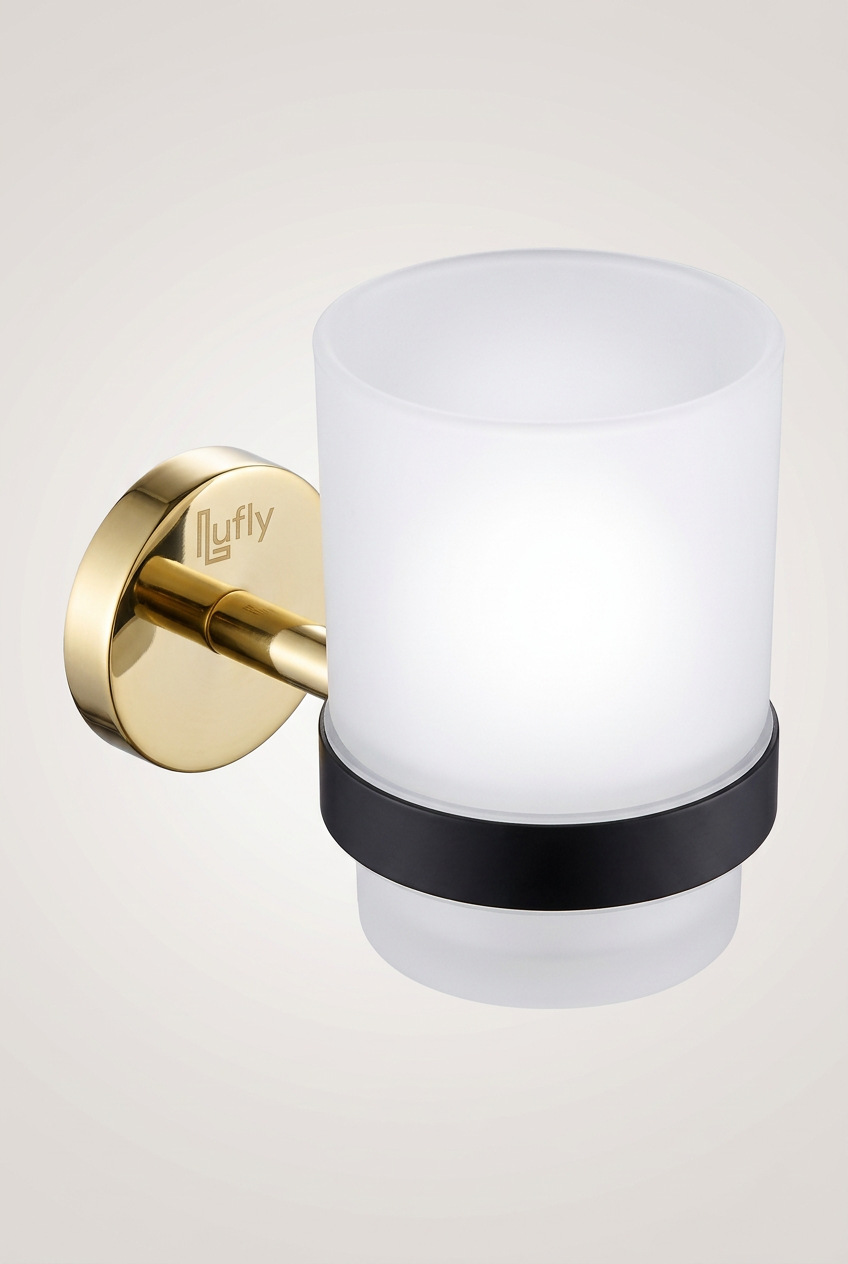
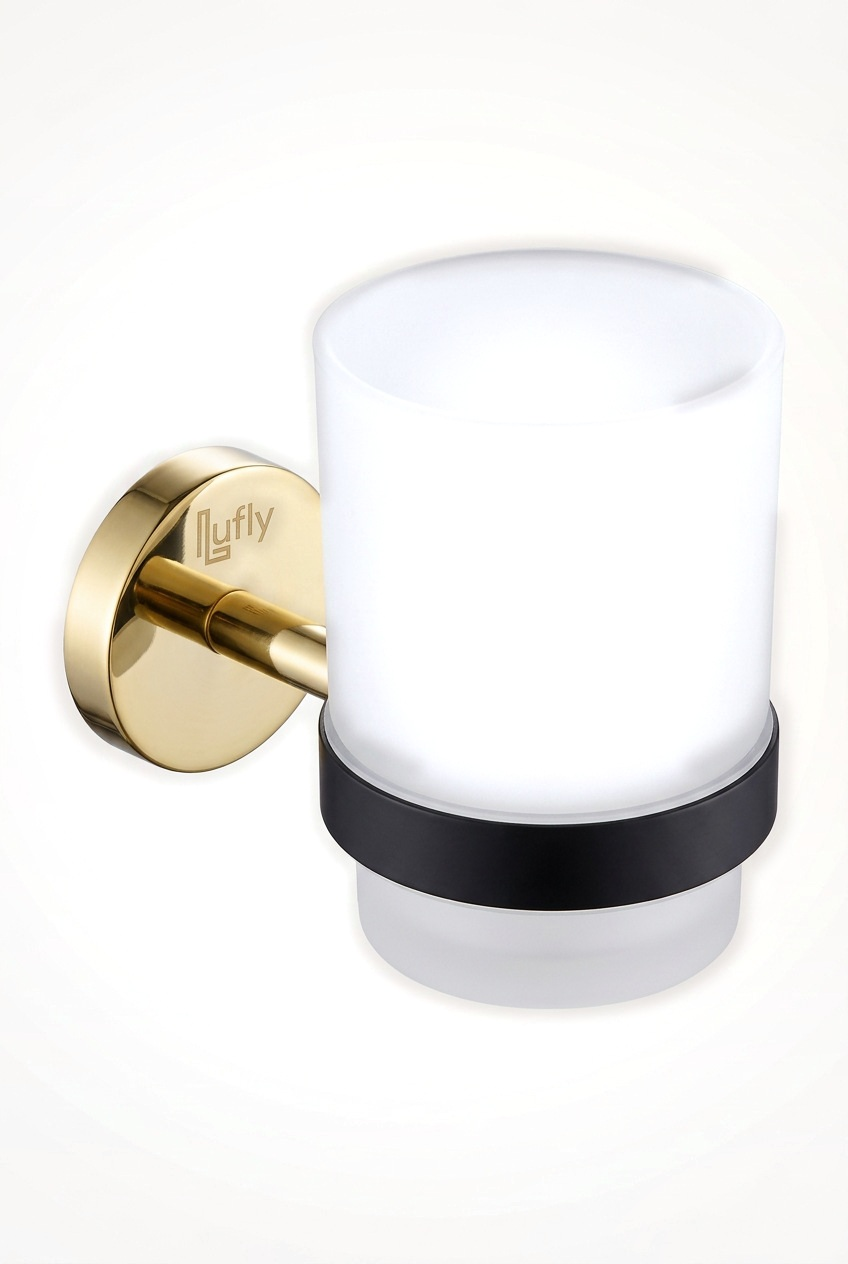
Re-shoot 1300-028 and 1300-07806GB from the real product photos, and flatten every hero backdrop to white
- 1300-028 is a wire soap-dish basket, not the solid milled dish that had been
  generated: re-shot from the real product photo (three wire rails, vertical
  prongs, square wall bracket).
- 1300-07806GB is a thin gold rod with a white frosted cup and a black band on a
  round gold wall disc: re-shot from the real photo, without the invented gold
  knob under the cup.
- Product cards blend photos with mix-blend-mode: multiply, so the beige,
  vignetted studio backdrops were showing up as a second rectangle inside every
  card. tools/white_bg.py estimates that backdrop and divides it out (keeping
  the contact shadow), so all 19 heroes now sit on pure #ffffff and read as one
  continuous surface with the card.

diff --git a/tools/white_bg.py b/tools/white_bg.py
@@ -1,0 +1,63 @@
+"""Flatten the studio backdrop of a hero photo to pure white.
+
+The catalogue cards blend photos with ``mix-blend-mode: multiply``, so any
+off-white / vignetted backdrop shows up as a grey panel inside the card.
+This estimates the backdrop as a smooth field from the bright, low-gradient
+pixels, then divides it out so the backdrop lands on #ffffff while the product
+and its soft contact shadow keep their own shading.
+"""
+import numpy as np
+import cv2
+
+
+def _norm_conv(img, mask, sigma):
+    """Normalised convolution, evaluated on a quarter-scale copy for speed."""
+    h, w = img.shape[:2]
+    sc = 0.25
+    small_img = cv2.resize(img, (max(1, int(w * sc)), max(1, int(h * sc))), interpolation=cv2.INTER_AREA)
+    small_mask = cv2.resize(mask.astype(np.float32), (max(1, int(w * sc)), max(1, int(h * sc))), interpolation=cv2.INTER_AREA)
+    num = cv2.GaussianBlur(small_img * small_mask[..., None], (0, 0), sigma * sc)
+    den = cv2.GaussianBlur(small_mask, (0, 0), sigma * sc)[..., None]
+    field = num / np.maximum(den, 1e-4)
+    return cv2.resize(field, (w, h), interpolation=cv2.INTER_LINEAR)
+
+
+def flatten(path_in, path_out, target=255.0, quality=94, blur_sigma=None):
+    bgr = cv2.imread(path_in, cv2.IMREAD_COLOR)
+    img = bgr.astype(np.float32)
+    h, w = img.shape[:2]
+    sigma = blur_sigma or max(h, w) / 5.0
+
+    g = cv2.cvtColor(img, cv2.COLOR_BGR2GRAY)
+    smooth = cv2.GaussianBlur(g, (0, 0), 3)
+    grad = np.abs(cv2.Sobel(smooth, cv2.CV_32F, 1, 0, ksize=3)) + \
+           np.abs(cv2.Sobel(smooth, cv2.CV_32F, 0, 1, ksize=3))
+    # the backdrop is bright, locally flat AND at some distance from any
+    # product edge, so the object itself can never be mistaken for backdrop
+    edges = (grad > 12).astype(np.uint8)
+    edges = cv2.dilate(edges, np.ones((11, 11), np.uint8))
+    backdrop = ((smooth > 205) & (edges == 0)).astype(np.uint8)
+    # keep only backdrop connected to the frame border
+    n, lab = cv2.connectedComponents(backdrop, connectivity=4)
+    border = np.concatenate([lab[0], lab[-1], lab[:, 0], lab[:, -1]])
+    labels = np.unique(border[border > 0])
+    keep = np.isin(lab, labels).astype(np.uint8)
+    field = _norm_conv(img, keep, sigma)
+    field = np.clip(field, 190, 255)
+
+    weight = cv2.GaussianBlur(keep.astype(np.float32), (0, 0), 6)[..., None]
+    gain = np.clip(target / field, 1.0, 1.35)
+    out = img * (1.0 + (gain - 1.0) * weight)
+    # snap only genuine backdrop pixels (bright, deep inside the mask) to pure
+    # white; the soft contact shadow and every product pixel are left alone
+    snap = (weight[..., 0] > 0.80) & (img.min(axis=2) > 233)
+    snapw = snap.astype(np.float32)[..., None] * weight
+    out = out * (1.0 - snapw) + target * snapw
+    out = np.clip(out, 0, 255).astype(np.uint8)
+    cv2.imwrite(path_out, out, [cv2.IMWRITE_JPEG_QUALITY, quality])
+    return out.shape
+
+
+if __name__ == '__main__':
+    import sys
+    flatten(sys.argv[1], sys.argv[2])
